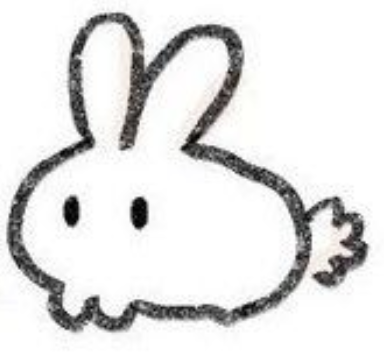
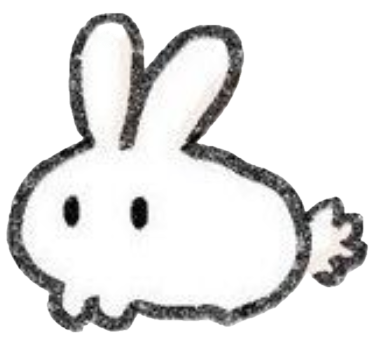
Refine corkboard: washi tape, fixed pins, new assets, livelier tilts
- Fix pins clipped by .pc overflow; set overflow visible board-wide
- Polaroid: striped washi tape, moved below the What I do list
- What I do list: note.png grid paper bg, top-left, centered pin
- Flight tag: Berlin 2024 on dotted line, larger KPMG in red bar
- Description note: note2-removebg (washi baked in)
- Berlin postcard: swap to Bild.jpeg + pink gingham washi corners
- Würzburg decluttered; larger Vietnam stamp moved to corner
- Liven element tilts; consolidate assets into Material/

diff --git a/index.html b/index.html
@@ -60,8 +60,8 @@ img{display:block;max-width:100%}
 .board{
   position:relative;
   min-height:calc(100svh - 48px);
-  overflow:hidden;
-  background-image:url('cork-wallpaper-25-wallpaper-background-hd.webp');
+  overflow:visible;
+  background-image:url('Material/cork-wallpaper-25-wallpaper-background-hd.webp');
   background-size:cover;
   background-position:center;
 }
@@ -87,11 +87,11 @@ img{display:block;max-width:100%}
   box-shadow:0 1px 1px rgba(0,0,0,.14),2px 4px 8px rgba(0,0,0,.18),4px 10px 22px rgba(0,0,0,.14),8px 20px 40px rgba(0,0,0,.08);
   transition:transform .3s var(--spring),box-shadow .3s;
   background:#FEFCF8;
-  overflow:hidden;
+  overflow:visible;
 }
-.pc:hover{
-  box-shadow:0 2px 3px rgba(0,0,0,.18),3px 8px 16px rgba(0,0,0,.22),8px 20px 40px rgba(0,0,0,.18),12px 32px 60px rgba(0,0,0,.10);
-}
+/* ══ WASHI TAPE ══ */
+.washi{position:absolute;z-index:6;pointer-events:none;display:block;filter:drop-shadow(1px 2px 3px rgba(0,0,0,.18))}
+/* hover lift/shadow removed per design — only the business card reacts */
 
 /* Image filling a card */
 .pc-img{display:block;width:100%;height:auto}
@@ -104,34 +104,37 @@ img{display:block;max-width:100%}
 /* ══ INDIVIDUAL CARD STYLES ══ */
 
 /* ① Girl in polaroid — upper left */
-.pc-girl{width:130px;left:2%;top:6%;transform:rotate(-3deg);z-index:2;background:transparent;box-shadow:none}
-.pc-girl:hover{transform:rotate(-1.5deg) translateY(-4px)}
-.pc-girl .polaroid-photo{position:absolute;top:5.5%;left:7%;width:86%;height:71%;object-fit:cover;z-index:1}
-.pc-girl .polaroid-frame{position:relative;display:block;width:100%;z-index:2;filter:drop-shadow(2px 5px 12px rgba(0,0,0,.28))}
+/* ① Girl — pure-CSS polaroid, real polaroid proportions */
+.pc-girl{width:150px;left:1.5%;top:47%;transform:rotate(3deg);z-index:2;background:#FDFBF6;border-radius:2px;padding:9px 9px 32px;
+  box-shadow:0 1px 1px rgba(0,0,0,.14),2px 5px 12px rgba(0,0,0,.24),5px 14px 30px rgba(0,0,0,.14)}
+.pc-girl .polaroid-photo{display:block;width:100%;aspect-ratio:1/1;object-fit:cover;background:#fff}
+.washi-polaroid{top:-15px;left:50%;width:78px;transform:translateX(-50%) rotate(-8deg)}
 
 /* ② Skills note — note.png has built-in pin */
-.pc-skills{width:22%;min-width:185px;left:2%;top:30%;transform:rotate(-0.8deg);z-index:2;background:transparent;box-shadow:none}
-.pc-skills:hover{transform:rotate(.5deg) translateY(-4px)}
+.pc-skills{width:22%;min-width:185px;left:2%;top:3%;transform:rotate(-2.5deg);z-index:2;background:transparent;box-shadow:none}
 .pc-skills .pc-img{border-radius:2px;box-shadow:2px 4px 10px rgba(0,0,0,.22),5px 12px 28px rgba(0,0,0,.14)}
-.skills-text{position:absolute;top:12%;left:7%;right:5%}
+.skills-text{position:absolute;top:14%;left:9%;right:8%}
 .skills-label{font-family:"DM Serif Display",serif;font-size:clamp(11px,1.1vw,15px);color:var(--ink);margin-bottom:8px;border-bottom:1px solid rgba(61,48,40,.15);padding-bottom:5px}
 .skills-list{list-style:none;display:flex;flex-direction:column;gap:5px}
-.skills-list li{font-size:clamp(9px,.9vw,12px);color:var(--ink-mid);display:flex;align-items:center;gap:6px}
-.skill-fl{width:16px;height:auto;flex-shrink:0;display:block}
+.skills-list li{font-size:clamp(9px,.9vw,12px);color:var(--ink-mid);display:flex;align-items:center;gap:7px}
+.skill-fl{width:15px;height:auto;flex-shrink:0;display:block}
+.skills-list li:nth-child(1) .skill-fl{filter:hue-rotate(0deg)}
+.skills-list li:nth-child(2) .skill-fl{filter:hue-rotate(45deg)}
+.skills-list li:nth-child(3) .skill-fl{filter:hue-rotate(90deg)}
+.skills-list li:nth-child(4) .skill-fl{filter:hue-rotate(135deg)}
+.skills-list li:nth-child(5) .skill-fl{filter:hue-rotate(180deg)}
+.skills-list li:nth-child(6) .skill-fl{filter:hue-rotate(225deg)}
+.skills-list li:nth-child(7) .skill-fl{filter:hue-rotate(270deg)}
+.skills-list li:nth-child(8) .skill-fl{filter:hue-rotate(315deg)}
 
 /* ③ KPMG flight tag */
-.pc-flight{width:155px;left:2%;bottom:22%;transform:rotate(-6deg);z-index:2;background:transparent;box-shadow:none}
-.pc-flight:hover{transform:rotate(-3.5deg) translateY(-4px)}
-.pc-flight .pc-img{border-radius:4px;box-shadow:2px 4px 10px rgba(0,0,0,.2),5px 12px 28px rgba(0,0,0,.12)}
-.flight-text{position:absolute;top:18%;left:0;right:0;text-align:center}
-.flight-dest{font-family:"DM Serif Display",serif;font-size:13px;color:#2A1A0A;letter-spacing:.02em;margin-bottom:2px}
-.flight-co{font-size:10px;font-weight:700;letter-spacing:.12em;color:#2A1A0A;text-transform:uppercase;position:absolute;top:57%;left:0;right:0;text-align:center}
-.flight-ribbon{position:absolute;top:-8px;left:50%;transform:translateX(-50%);width:70%;pointer-events:none}
-.flight-ribbon img{width:100%}
+.pc-flight{width:175px;left:2%;bottom:22%;transform:rotate(-7deg);z-index:2;background:transparent;box-shadow:none}
+.pc-flight .pc-img{display:block;width:100%;filter:drop-shadow(2px 5px 12px rgba(0,0,0,.22))}
+.flight-dest{position:absolute;top:38%;left:0;right:0;text-align:center;font-family:"DM Serif Display",serif;font-size:14px;color:#8A1A20;letter-spacing:.02em}
+.flight-co{position:absolute;top:60.5%;left:0;right:0;text-align:center;font-size:16px;font-weight:700;letter-spacing:.14em;color:#FBEFE2;text-transform:uppercase}
 
 /* ④ TeamViewer ticket */
-.pc-ticket{width:175px;left:5%;bottom:9%;transform:rotate(3deg);z-index:2;background:transparent;box-shadow:none}
-.pc-ticket:hover{transform:rotate(1.5deg) translateY(-4px)}
+.pc-ticket{width:175px;left:5%;bottom:9%;transform:rotate(4deg);z-index:2;background:transparent;box-shadow:none}
 .pc-ticket .pc-img{border-radius:4px;box-shadow:2px 4px 10px rgba(0,0,0,.2)}
 .ticket-text{position:absolute;inset:0;display:flex;flex-direction:column;align-items:center;justify-content:center;text-align:center}
 .ticket-co{font-family:"DM Serif Display",serif;font-size:14px;color:#2A1A0A;font-style:italic}
@@ -158,12 +161,11 @@ img{display:block;max-width:100%}
 /* ⑥ Main headline card */
 .pc-main{
   width:40%;left:28%;top:11%;
-  transform:rotate(-1.2deg);
+  transform:rotate(-1.5deg);
   padding:30px 34px 34px;
   z-index:3;
 }
 .pc-main::after{content:"";position:absolute;bottom:0;left:0;right:0;height:32%;background:repeating-linear-gradient(transparent,transparent 22px,rgba(160,135,110,.15) 22px,rgba(160,135,110,.15) 23px);pointer-events:none}
-.pc-main:hover{transform:rotate(-.3deg) translateY(-5px)}
 .hero-eyebrow{display:inline-flex;align-items:center;gap:8px;font-size:11px;font-weight:500;letter-spacing:.14em;text-transform:uppercase;color:var(--ink-soft);margin-bottom:14px}
 .hero-eyebrow .dot{width:6px;height:6px;border-radius:50%;background:var(--sage);animation:blink 2.2s ease-in-out infinite}
 @keyframes blink{0%,100%{opacity:1}50%{opacity:.3}}
@@ -174,8 +176,7 @@ img{display:block;max-width:100%}
 .hero-actions{display:flex;gap:10px;flex-wrap:wrap;position:relative;z-index:1;margin-top:6px}
 
 /* ⑦ Description (note2.png) */
-.pc-desc{width:26%;left:30%;top:64%;transform:rotate(2deg);z-index:2;background:transparent;box-shadow:none}
-.pc-desc:hover{transform:rotate(.8deg) translateY(-4px)}
+.pc-desc{width:26%;left:30%;top:64%;transform:rotate(2.5deg);z-index:2;background:transparent;box-shadow:none}
 .pc-desc .pc-img{border-radius:6px;box-shadow:2px 4px 10px rgba(0,0,0,.2),5px 12px 28px rgba(0,0,0,.12)}
 .desc-text{position:absolute;top:18%;left:12%;right:12%;bottom:18%}
 .desc-text p{font-size:clamp(9px,.85vw,12px);color:var(--ink-mid);line-height:1.55}
@@ -184,7 +185,7 @@ img{display:block;max-width:100%}
 /* ⑧ Business card */
 .pc-business{
   width:220px;left:43%;bottom:8%;
-  transform:rotate(-1.5deg);
+  transform:rotate(-2deg);
   z-index:2;background:#F8F5EE;border-radius:5px;
 }
 .pc-business:hover{transform:rotate(-.3deg) translateY(-5px)}
@@ -196,8 +197,10 @@ img{display:block;max-width:100%}
 .biz-contact{font-size:9.5px;color:var(--ink-soft);line-height:1.7}
 
 /* ⑨ Berlin poster */
-.pc-berlin{width:18%;right:3%;top:5%;transform:rotate(2.5deg);z-index:2}
-.pc-berlin:hover{transform:rotate(1.2deg) translateY(-5px)}
+.pc-berlin{width:18%;right:3%;top:5%;transform:rotate(3deg);z-index:2}
+.pc-berlin .pc-img{display:block;width:100%}
+.washi-berlin-tr{top:8px;right:-20px;width:82px;transform:rotate(-48deg)}
+.washi-berlin-bl{bottom:8px;left:-20px;width:82px;transform:rotate(-48deg)}
 
 /* ⑩ Zuhause note */
 .pc-zuhause{
@@ -206,22 +209,19 @@ img{display:block;max-width:100%}
   padding:11px 13px;
   background:#FDEEA0;z-index:4;
 }
-.pc-zuhause:hover{transform:rotate(2.5deg) translateY(-4px)}
 .pc-zuhause p{font-family:"DM Serif Display",serif;font-size:15px;color:#5A4010;line-height:1.3}
 
 /* ⑪ Vietnam stamp (floating) */
 .deco-stamp{
-  position:absolute;right:20.5%;top:55%;
-  width:65px;transform:rotate(-4deg);
+  position:absolute;right:1.5%;top:36%;
+  width:84px;transform:rotate(-7deg);
   z-index:4;
   box-shadow:1px 2px 6px rgba(0,0,0,.25);
   border-radius:2px;
 }
-.deco-stamp:hover{transform:rotate(-2deg) translateY(-3px)}
 
 /* ⑫ Würzburg — flat photo card (no polaroid) */
-.pc-wuerzburg{width:185px;right:3%;top:42%;transform:rotate(-2deg);z-index:2;padding:0;overflow:hidden}
-.pc-wuerzburg:hover{transform:rotate(-.5deg) translateY(-5px)}
+.pc-wuerzburg{width:190px;right:5%;top:44%;transform:rotate(-3deg);z-index:2;padding:0}
 .pc-wuerzburg .pc-img{width:100%;display:block;object-fit:cover}
 .photo-cap{padding:7px 10px 9px;font-family:"DM Serif Display",serif;font-size:11px;color:var(--ink-mid);font-style:italic;background:#FFFDF8;text-align:center}
 
@@ -229,16 +229,14 @@ img{display:block;max-width:100%}
 .polaroid-wrap{position:relative;display:block}
 
 /* ⑬ Graduation cap card */
-.pc-graduation{width:200px;right:3%;bottom:8%;transform:rotate(1.5deg);z-index:2}
-.pc-graduation:hover{transform:rotate(.3deg) translateY(-5px)}
+.pc-graduation{width:200px;right:3%;bottom:8%;transform:rotate(2deg);z-index:2}
 .pc-graduation .pc-img{width:100%;display:block}
 .grad-text{padding:12px 16px 16px;background:#FFFDF8}
 .grad-title{font-family:"DM Serif Display",serif;font-size:12px;color:var(--ink);line-height:1.3;margin-bottom:3px}
 .grad-sub{font-size:10px;color:var(--ink-soft)}
 
 /* ⑭ Saigon map — LARGE */
-.pc-saigon{width:285px;right:21%;bottom:5%;transform:rotate(-2.5deg);z-index:3}
-.pc-saigon:hover{transform:rotate(-1deg) translateY(-4px)}
+.pc-saigon{width:285px;right:19%;bottom:7%;transform:rotate(-3.5deg);z-index:3}
 .pc-saigon .pc-img{width:100%;display:block}
 .saigon-cap{padding:8px 10px 10px;font-family:"DM Serif Display",serif;font-size:11px;color:var(--ink-mid);font-style:italic;background:#FFFDF8;text-align:center}
 
@@ -394,27 +392,26 @@ img{display:block;max-width:100%}
 
   <!-- ① Girl character inside polaroid frame -->
   <div class="pc pc-girl load d1" aria-label="Character illustration">
-    <div class="polaroid-wrap">
-      <img class="polaroid-photo" src="c7738b2aa4477016388b23feecd2ec39.jpg" alt="Girl character doodle"/>
-      <img class="polaroid-frame" src="pngfind.com-polaroid-frame-png-559852.png" alt=""/>
-    </div>
+    <img class="washi washi-polaroid" src="Material/8344d1987f948a85b2c12a77d4f8767e.png" alt=""/>
+    <img class="polaroid-photo" src="Material/c7738b2aa4477016388b23feecd2ec39.jpg" alt="Girl character doodle"/>
   </div>
 
   <!-- ② Skills note — note.png has its own pin built in -->
   <div class="pc pc-skills load d1">
+    <div class="pin"></div>
     <div class="pc-over">
-      <img class="pc-img" src="note.png" alt=""/>
+      <img class="pc-img" src="Material/note.png" alt=""/>
       <div class="pc-text skills-text">
         <div class="skills-label">What I do</div>
         <ul class="skills-list">
-          <li><img src="flowers.png" class="skill-fl" alt=""/>UI Design</li>
-          <li><img src="flowers.png" class="skill-fl" alt=""/>UX Research</li>
-          <li><img src="flowers.png" class="skill-fl" alt=""/>Wireframing</li>
-          <li><img src="flowers.png" class="skill-fl" alt=""/>Prototyping</li>
-          <li><img src="flowers.png" class="skill-fl" alt=""/>Usability Testing</li>
-          <li><img src="flowers.png" class="skill-fl" alt=""/>User Interviews</li>
-          <li><img src="flowers.png" class="skill-fl" alt=""/>Design Systems</li>
-          <li><img src="flowers.png" class="skill-fl" alt=""/>Requirements Engineering</li>
+          <li><img src="Material/flower-removebg-preview.png" class="skill-fl" alt=""/>UI Design</li>
+          <li><img src="Material/flower-removebg-preview.png" class="skill-fl" alt=""/>UX Research</li>
+          <li><img src="Material/flower-removebg-preview.png" class="skill-fl" alt=""/>Wireframing</li>
+          <li><img src="Material/flower-removebg-preview.png" class="skill-fl" alt=""/>Prototyping</li>
+          <li><img src="Material/flower-removebg-preview.png" class="skill-fl" alt=""/>Usability Testing</li>
+          <li><img src="Material/flower-removebg-preview.png" class="skill-fl" alt=""/>User Interviews</li>
+          <li><img src="Material/flower-removebg-preview.png" class="skill-fl" alt=""/>Design Systems</li>
+          <li><img src="Material/flower-removebg-preview.png" class="skill-fl" alt=""/>Requirements Engineering</li>
         </ul>
       </div>
     </div>
@@ -423,12 +420,8 @@ img{display:block;max-width:100%}
   <!-- ③ KPMG flight tag -->
   <div class="pc pc-flight load d2">
     <div class="pc-over">
-      <!-- pink polka ribbon as tape at top -->
-      <div class="flight-ribbon"><img src="7fc192aacf8554ee6faf90350c7ea8a1.png" alt=""/></div>
-      <img class="pc-img" src="flight.png" alt="KPMG Berlin"/>
-      <div class="flight-text">
-        <div class="flight-dest">Berlin 2024</div>
-      </div>
+      <img class="pc-img" src="Material/flight-removebg-preview.png" alt="KPMG Berlin"/>
+      <div class="flight-dest">Berlin 2024</div>
       <div class="flight-co">KPMG</div>
     </div>
   </div>
@@ -436,7 +429,7 @@ img{display:block;max-width:100%}
   <!-- ④ TeamViewer ticket -->
   <div class="pc pc-ticket load d2">
     <div class="pc-over">
-      <img class="pc-img" src="grafik-removebg-preview.png" alt="TeamViewer ticket"/>
+      <img class="pc-img" src="Material/grafik-removebg-preview.png" alt="TeamViewer ticket"/>
       <div class="ticket-text">
         <div class="ticket-co">TeamViewer</div>
         <div class="ticket-yr">2022 – 2023</div>
@@ -462,7 +455,7 @@ img{display:block;max-width:100%}
   <!-- ⑦ Description on note2 -->
   <div class="pc pc-desc load d3">
     <div class="pc-over">
-      <img class="pc-img" src="note2.png" alt=""/>
+      <img class="pc-img" src="Material/note2-removebg-preview.png" alt=""/>
       <div class="pc-text desc-text">
         <p>I work with teams to understand what they actually need — not just what they say — and translate that into <strong>designs that create real value</strong>, not just pretty screens.</p>
       </div>
@@ -474,7 +467,7 @@ img{display:block;max-width:100%}
     <div class="pin sage"></div>
     <div class="biz-top">
       <div class="biz-label">UX / UI Design</div>
-      <img src="hase.png" alt="Bunny logo" width="38" style="margin-top:-4px"/>
+      <img src="Material/hase-removebg-preview.png" alt="Bunny logo" width="38" style="margin-top:-4px"/>
     </div>
     <div class="biz-name">Bao Han Dam.</div>
     <div class="biz-role">UX / UI Designer</div>
@@ -486,7 +479,9 @@ img{display:block;max-width:100%}
   <!-- ⑨ Berlin poster -->
   <article class="pc pc-berlin load d1">
     <div class="pin red"></div>
-    <img class="pc-img" src="aa30d56588484b9105f7257cca40e2c1.jpg" alt="Berlin vintage travel poster"/>
+    <img class="washi washi-berlin-tr" src="Material/7702fce287285b24a80353cea13c3a00.png" alt=""/>
+    <img class="pc-img" src="Material/Bild.jpeg" alt="Berlin travel poster"/>
+    <img class="washi washi-berlin-bl" src="Material/7702fce287285b24a80353cea13c3a00.png" alt=""/>
   </article>
 
   <!-- ⑩ Zuhause sticky note -->
@@ -496,19 +491,19 @@ img{display:block;max-width:100%}
   </div>
 
   <!-- ⑪ Vietnam stamp (floating) -->
-  <img class="deco-stamp load d2" src="stamp.png" alt="Vietnam stamp"/>
+  <img class="deco-stamp load d2" src="Material/stamp.png" alt="Vietnam stamp"/>
 
   <!-- ⑫ Würzburg — flat photo card -->
   <div class="pc pc-wuerzburg load d2">
     <div class="pin blue"></div>
-    <img class="pc-img" src="wuerzburg.png" alt="Würzburg Marienberg fortress"/>
+    <img class="pc-img" src="Material/wuerzburg.png" alt="Würzburg Marienberg fortress"/>
     <div class="photo-cap">Würzburg ✦</div>
   </div>
 
   <!-- ⑬ Graduation cap -->
   <article class="pc pc-graduation load d3">
     <div class="pin blue"></div>
-    <img class="pc-img" src="6bb29a88969522c9b8a6ce8f0635f1a6.jpg" alt="Graduation cap"/>
+    <img class="pc-img" src="Material/6bb29a88969522c9b8a6ce8f0635f1a6.jpg" alt="Graduation cap"/>
     <div class="grad-text">
       <div class="grad-title">Bachelor of Science<br/>Human-Computer-Interaction</div>
       <div class="grad-sub">Universität Würzburg · 2024</div>
@@ -518,7 +513,7 @@ img{display:block;max-width:100%}
   <!-- ⑭ Saigon map -->
   <div class="pc pc-saigon load d3">
     <div class="pin"></div>
-    <img class="pc-img" src="DjvdFr4.jpg" alt="Vintage map of Saigon"/>
+    <img class="pc-img" src="Material/DjvdFr4.jpg" alt="Vintage map of Saigon"/>
     <div class="saigon-cap">Saigon ✦ origins</div>
   </div>
 